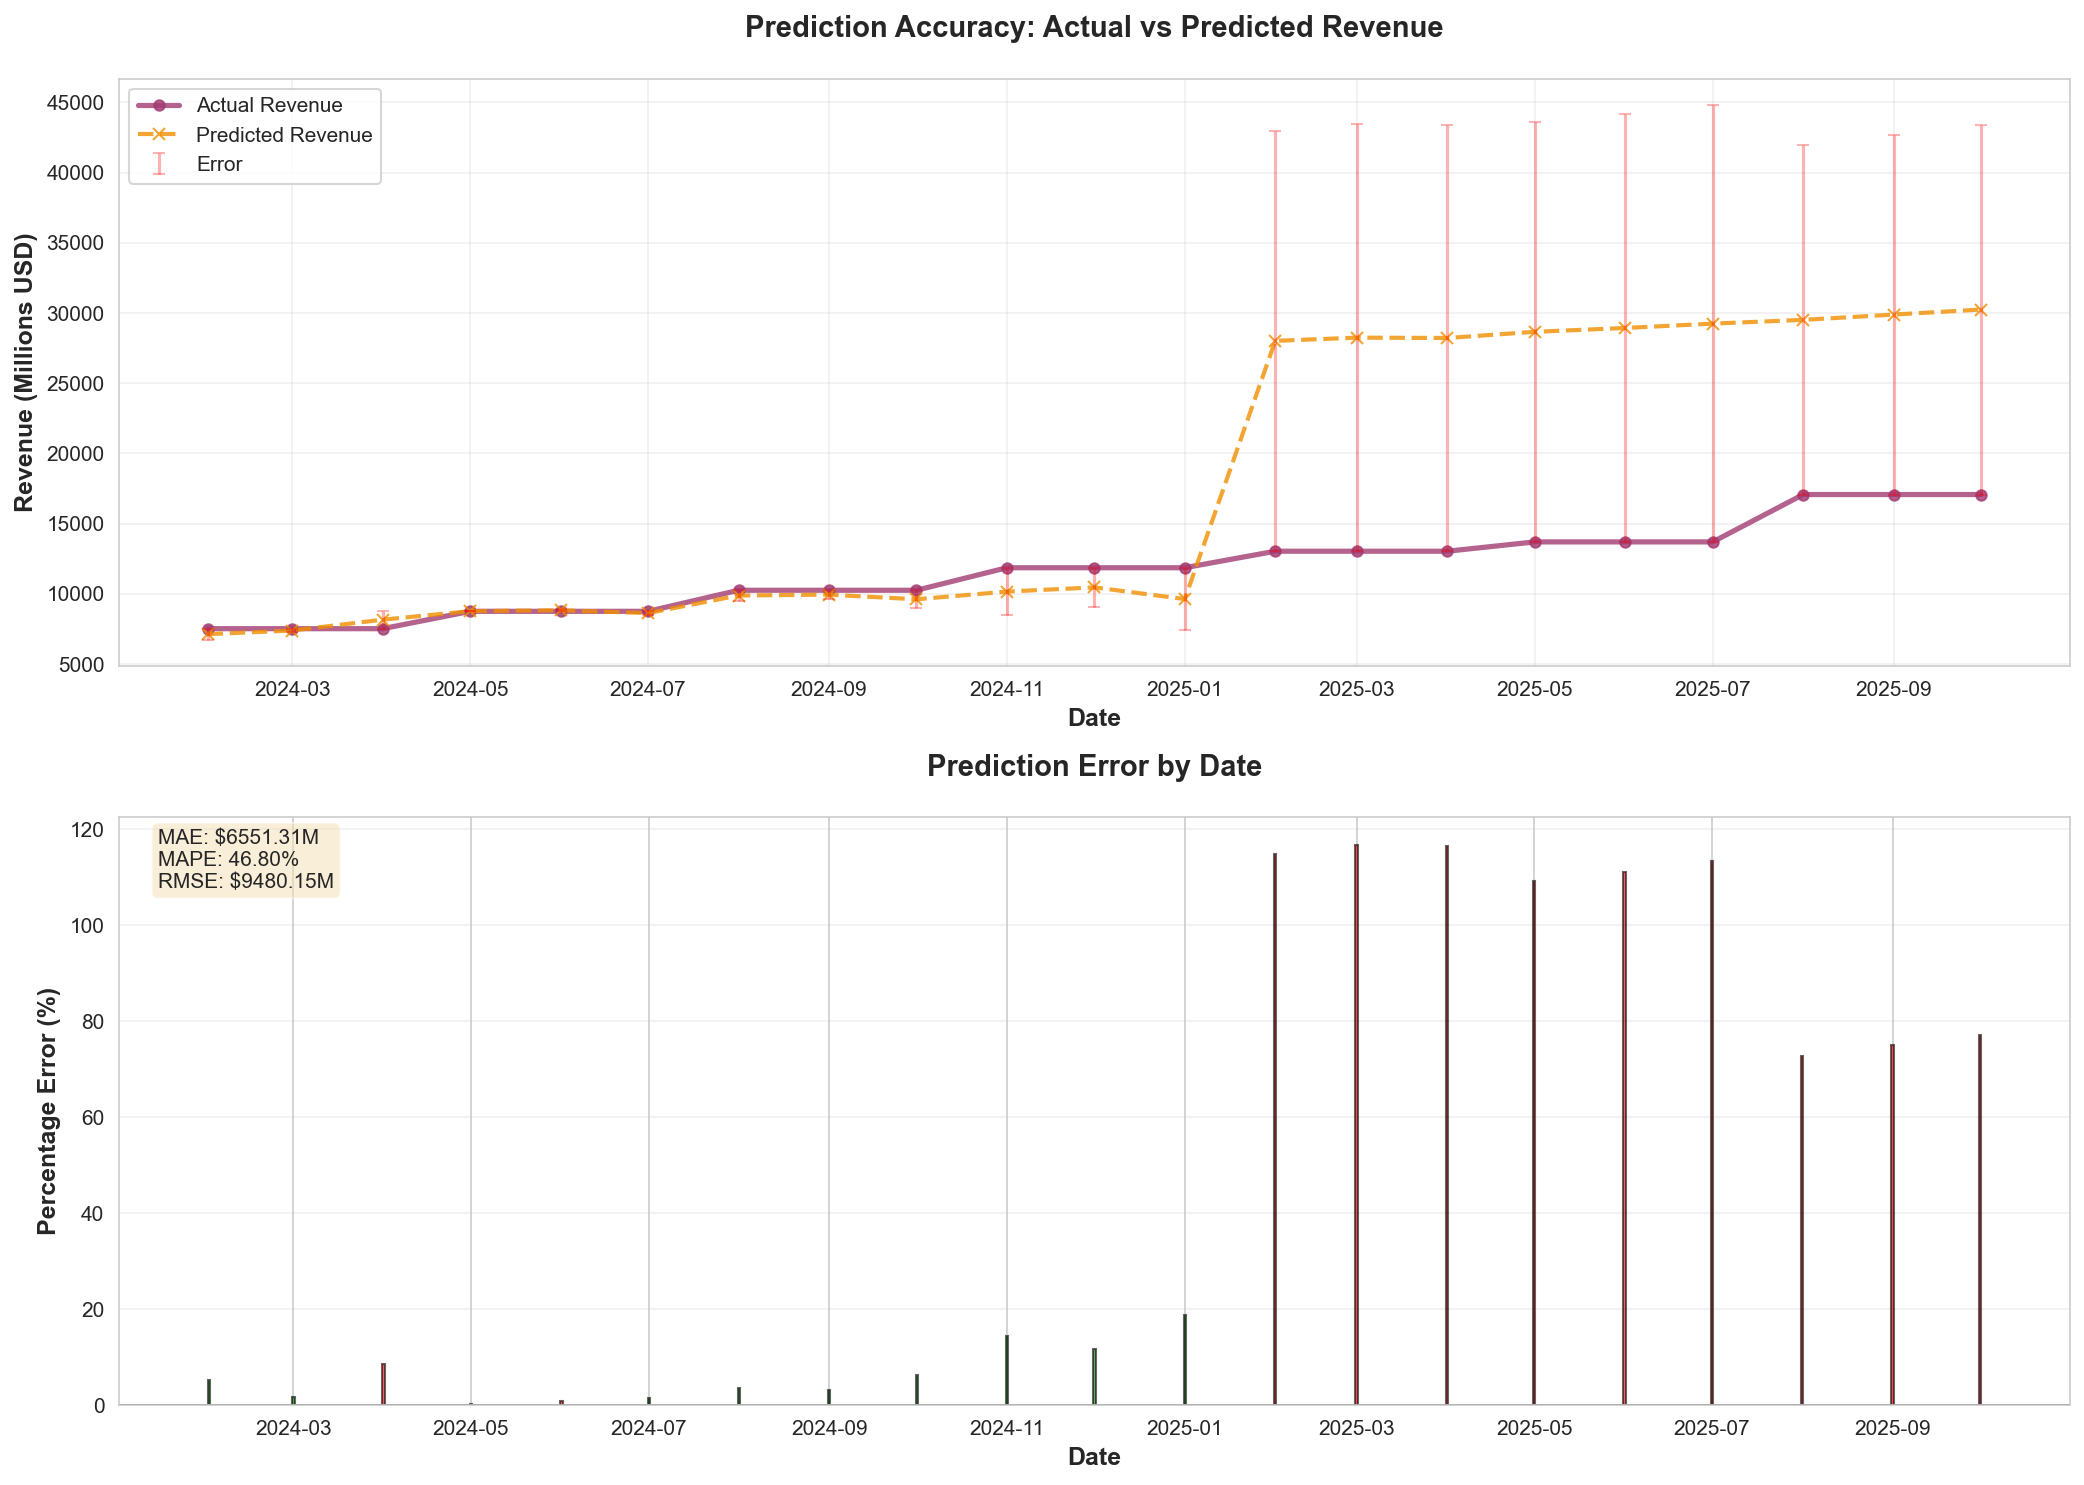
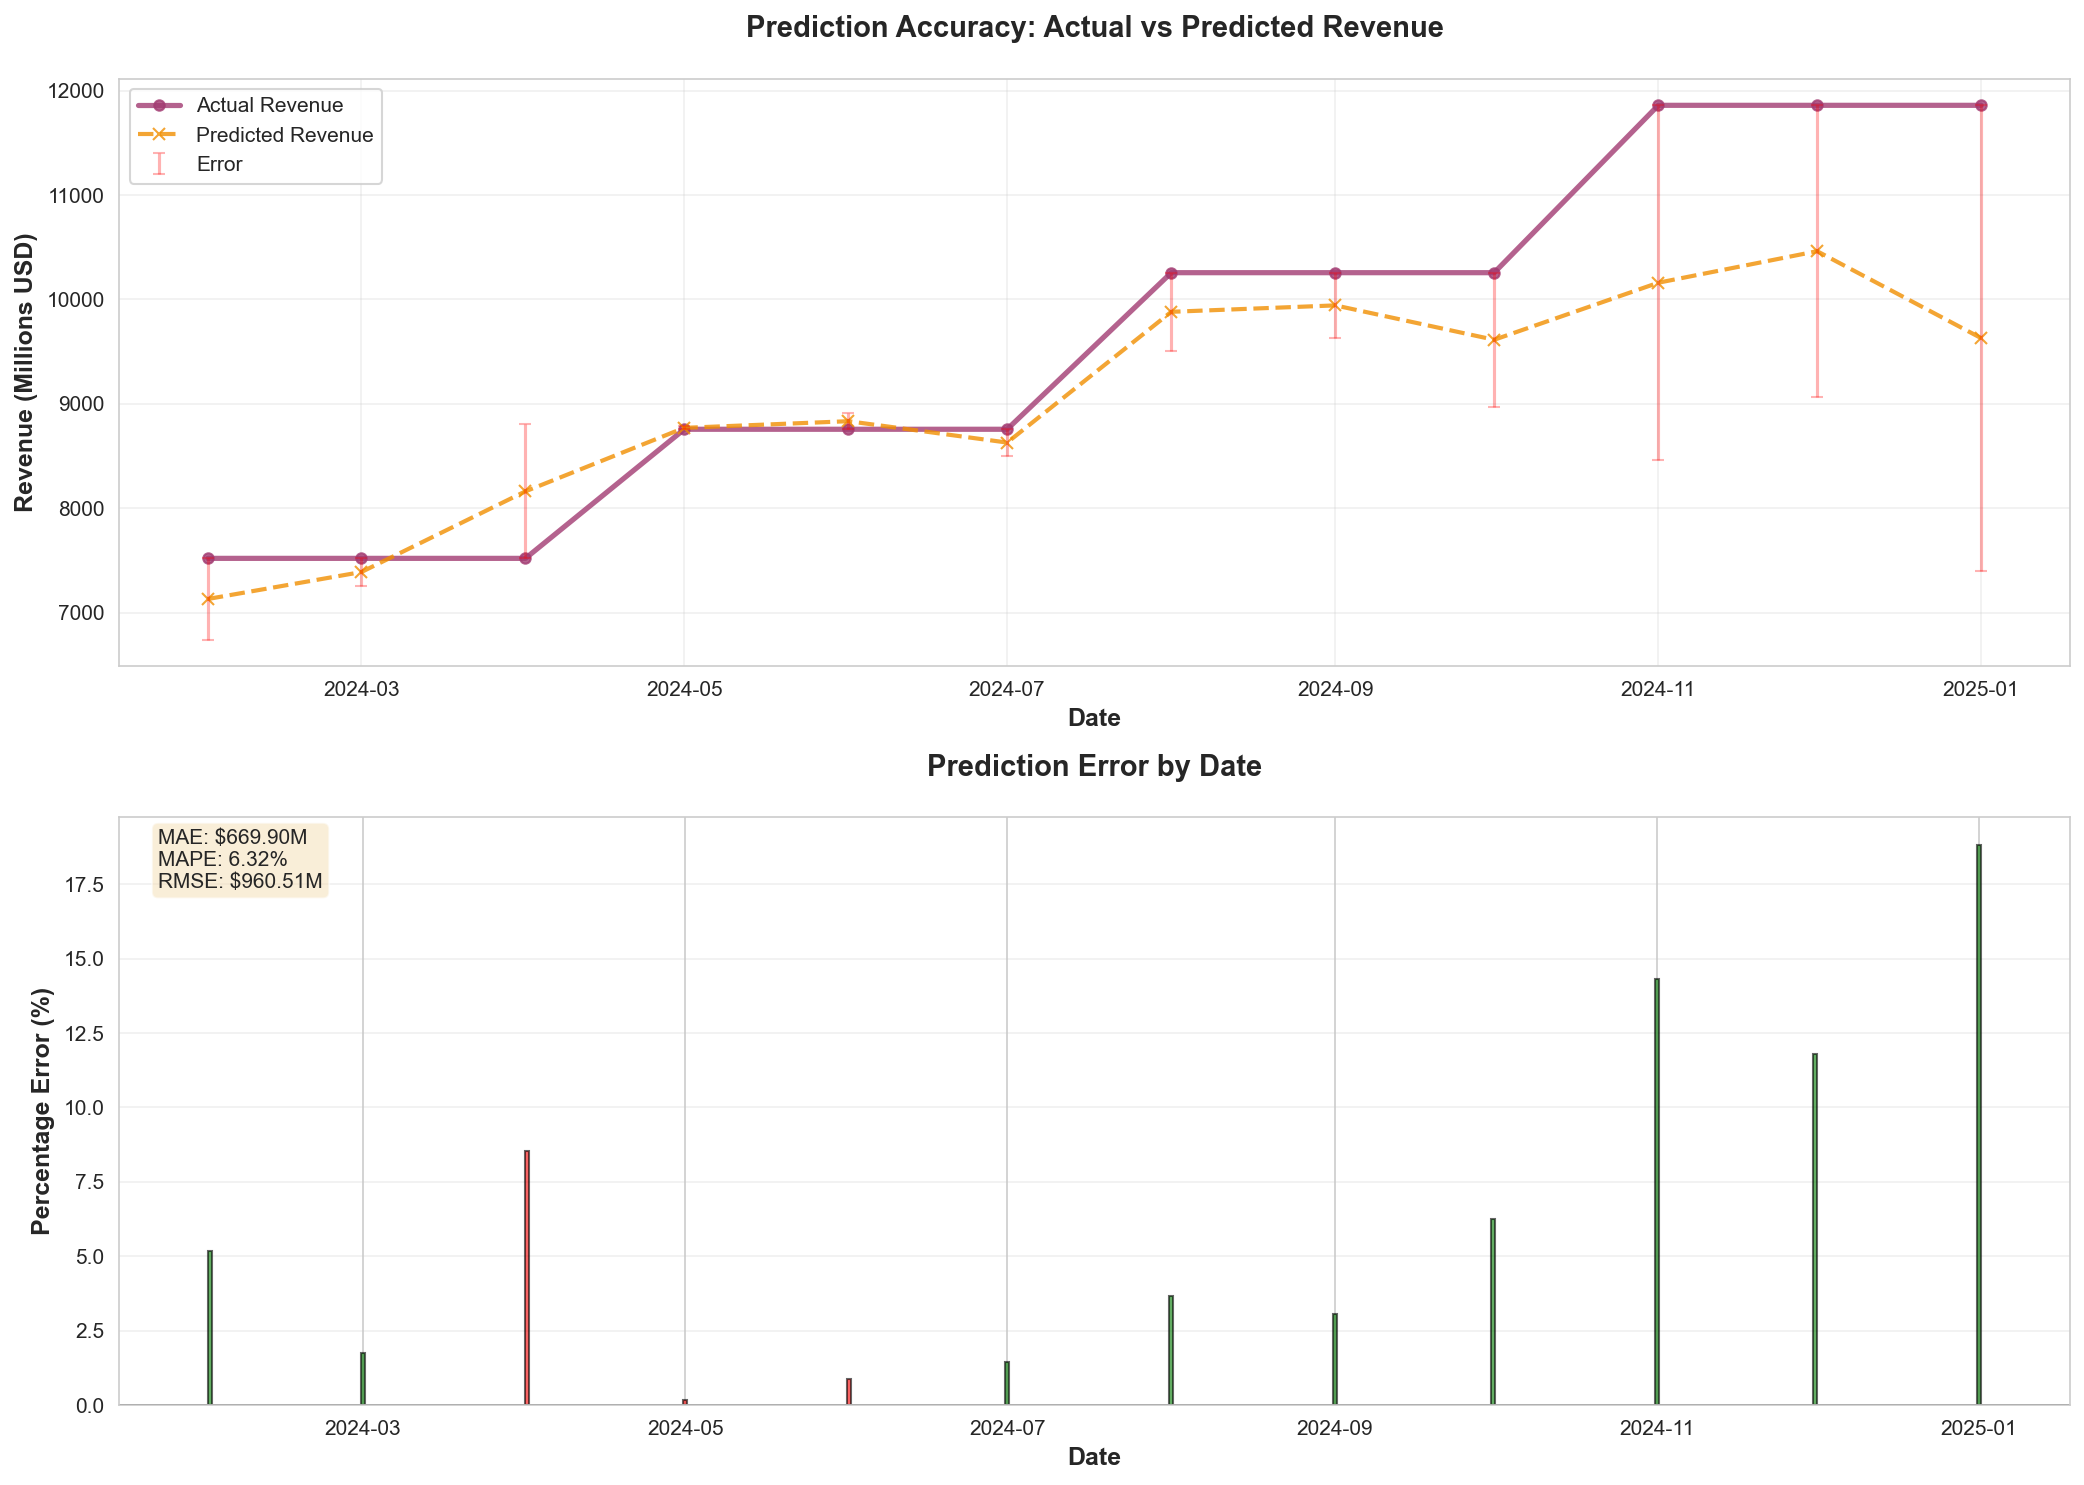
Update visualizations: remove forecast extension, regenerate all charts

diff --git a/src/visualize_predictions.py b/src/visualize_predictions.py
@@ -26,120 +26,6 @@ plt.rcParams['figure.figsize'] = (14, 8)
 PROJECT_ROOT = Path(__file__).parent.parent
 PROCESSED_DATA_DIR = PROJECT_ROOT / "data" / "processed"
 NOTEBOOKS_DIR = PROJECT_ROOT / "notebooks"
-MODELS_DIR = PROJECT_ROOT / "models"
-
-def generate_future_taiwan_exports(taiwan_df, end_date='2026-12-01'):
-    """Generate future Taiwan exports by extrapolating from recent trends."""
-    taiwan_df = taiwan_df.sort_values('date').reset_index(drop=True)
-    last_date = taiwan_df['date'].max()
-    end_date = pd.Timestamp(end_date)
-    
-    if last_date >= end_date:
-        return taiwan_df
-    
-    # Use last 12 months to calculate trend
-    recent = taiwan_df.tail(12).copy()
-    
-    # Calculate average and trend
-    avg_exports = recent['monthly_exports_usd_millions'].mean()
-    # Simple linear trend from last 12 months
-    x = np.arange(len(recent))
-    y = recent['monthly_exports_usd_millions'].values
-    trend_coef = np.polyfit(x, y, 1)
-    
-    # Generate future months
-    future_dates = pd.date_range(start=last_date + pd.DateOffset(months=1), 
-                                 end=end_date, freq='MS')
-    
-    future_data = []
-    for i, date in enumerate(future_dates):
-        # Extrapolate using trend
-        future_value = trend_coef[0] * (len(recent) + i) + trend_coef[1]
-        # Don't let it go negative or too low
-        future_value = max(future_value, avg_exports * 0.5)
-        
-        future_data.append({
-            'date': date,
-            'monthly_exports_usd_thousands': future_value * 1000,
-            'monthly_exports_usd_millions': future_value,
-            'year': date.year,
-            'month': date.month
-        })
-    
-    future_df = pd.DataFrame(future_data)
-    combined_df = pd.concat([taiwan_df, future_df], ignore_index=True)
-    return combined_df
-
-def create_features_for_prediction(df):
-    """Create features for prediction (same as in predict_nvidia_revenue.py)."""
-    df = df.copy()
-    df = df.sort_values('date').reset_index(drop=True)
-    
-    # Lag features
-    df['exports_lag1'] = df['monthly_exports_usd_millions'].shift(1)
-    df['exports_lag2'] = df['monthly_exports_usd_millions'].shift(2)
-    df['exports_lag3'] = df['monthly_exports_usd_millions'].shift(3)
-    
-    # Rolling averages
-    df['exports_ma3'] = df['monthly_exports_usd_millions'].rolling(window=3).mean()
-    df['exports_ma6'] = df['monthly_exports_usd_millions'].rolling(window=6).mean()
-    df['exports_ma12'] = df['monthly_exports_usd_millions'].rolling(window=12).mean()
-    
-    # Growth rates
-    df['exports_yoy'] = df['monthly_exports_usd_millions'].pct_change(periods=12)
-    df['exports_mom'] = df['monthly_exports_usd_millions'].pct_change(periods=1)
-    
-    # Time features
-    df['year'] = df['date'].dt.year
-    df['month'] = df['date'].dt.month
-    df['quarter'] = df['date'].dt.quarter
-    df['trend'] = range(len(df))
-    
-    return df
-
-def generate_future_predictions(taiwan_df, end_date='2026-12-01'):
-    """Generate Nvidia revenue predictions through end_date using trained model."""
-    import joblib
-    from sklearn.preprocessing import StandardScaler
-    
-    # Load trained model
-    model_path = MODELS_DIR / "nvidia_revenue_predictor.pkl"
-    if not model_path.exists():
-        print("   ⚠  Trained model not found. Run predict_nvidia_revenue.py first.")
-        return None
-    
-    model_data = joblib.load(model_path)
-    model = model_data['model']
-    scaler = model_data['scaler']
-    available_features = model_data['features']
-    
-    # Generate future Taiwan exports
-    taiwan_with_future = generate_future_taiwan_exports(taiwan_df, end_date)
-    
-    # Create features
-    taiwan_with_features = create_features_for_prediction(taiwan_with_future)
-    
-    # Get only future dates (beyond last actual Taiwan data)
-    last_actual_date = taiwan_df['date'].max()
-    future_data = taiwan_with_features[taiwan_with_features['date'] > last_actual_date].copy()
-    
-    if len(future_data) == 0:
-        return None
-    
-    # Prepare features
-    X_future = future_data[available_features].fillna(0)
-    X_future_scaled = scaler.transform(X_future)
-    
-    # Predict
-    predictions = model.predict(X_future_scaled)
-    
-    future_predictions_df = pd.DataFrame({
-        'date': future_data['date'].values,
-        'taiwan_exports_millions': future_data['monthly_exports_usd_millions'].values,
-        'predicted_nvidia_revenue_millions': predictions
-    })
-    
-    return future_predictions_df
 
 def load_data():
     """Load all necessary data files."""
